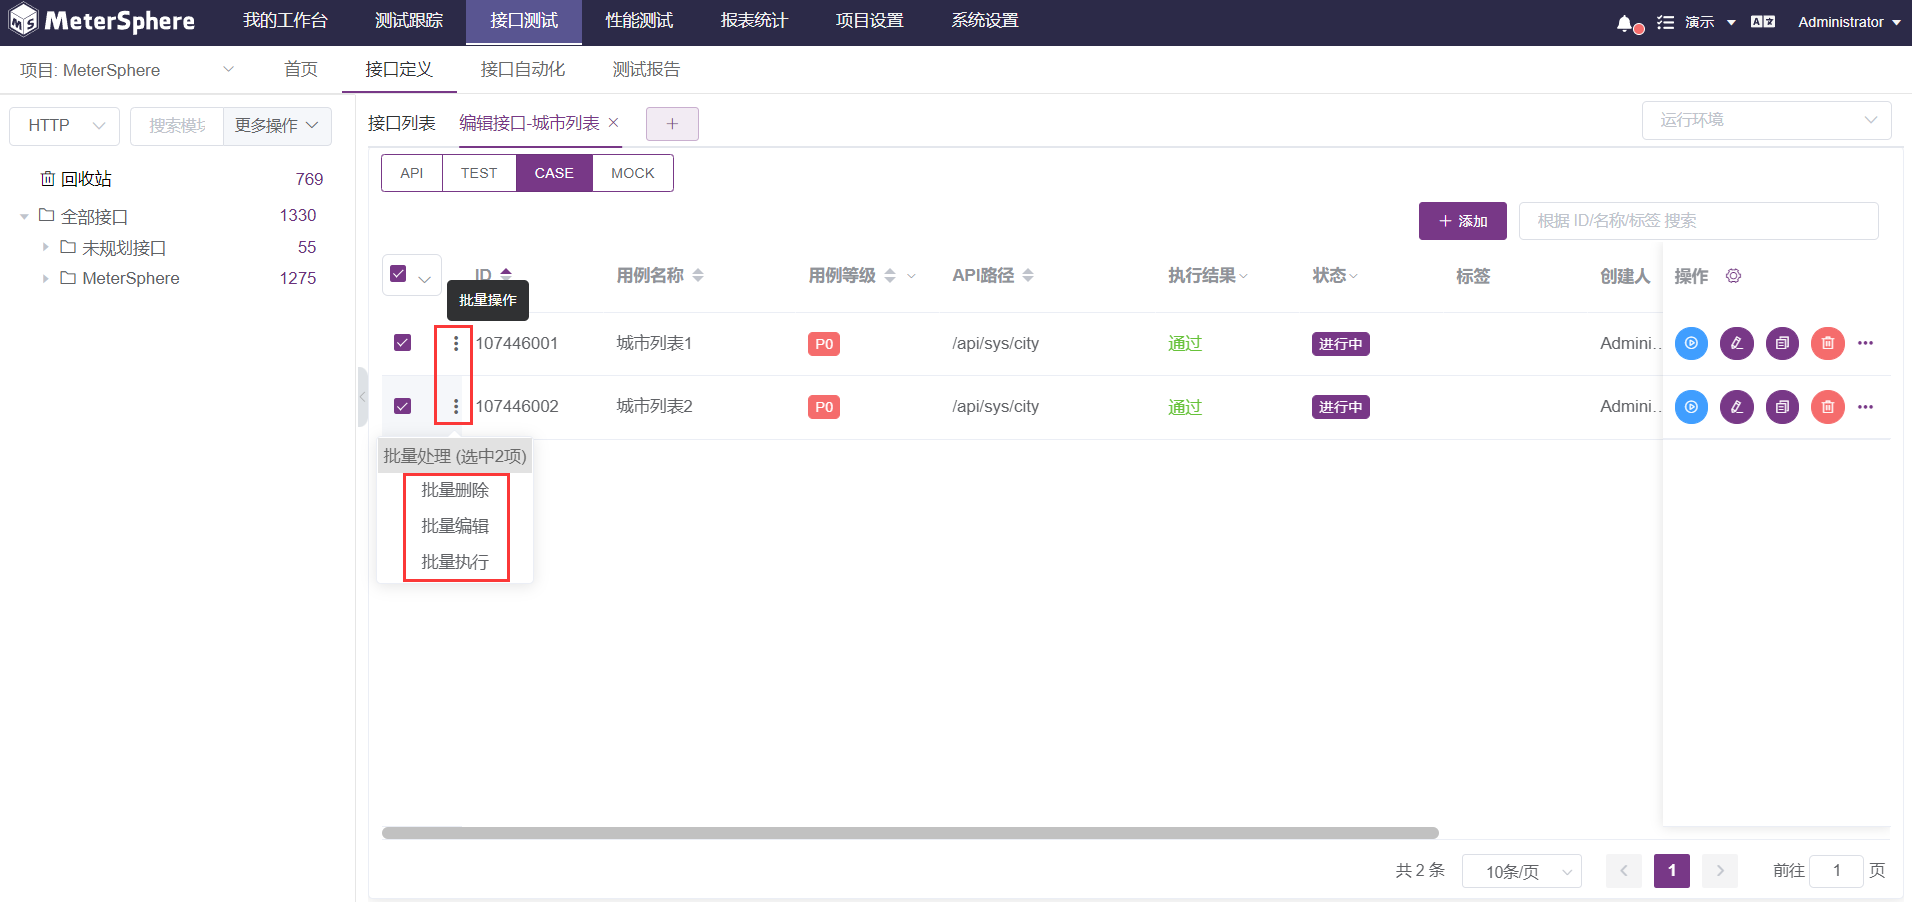
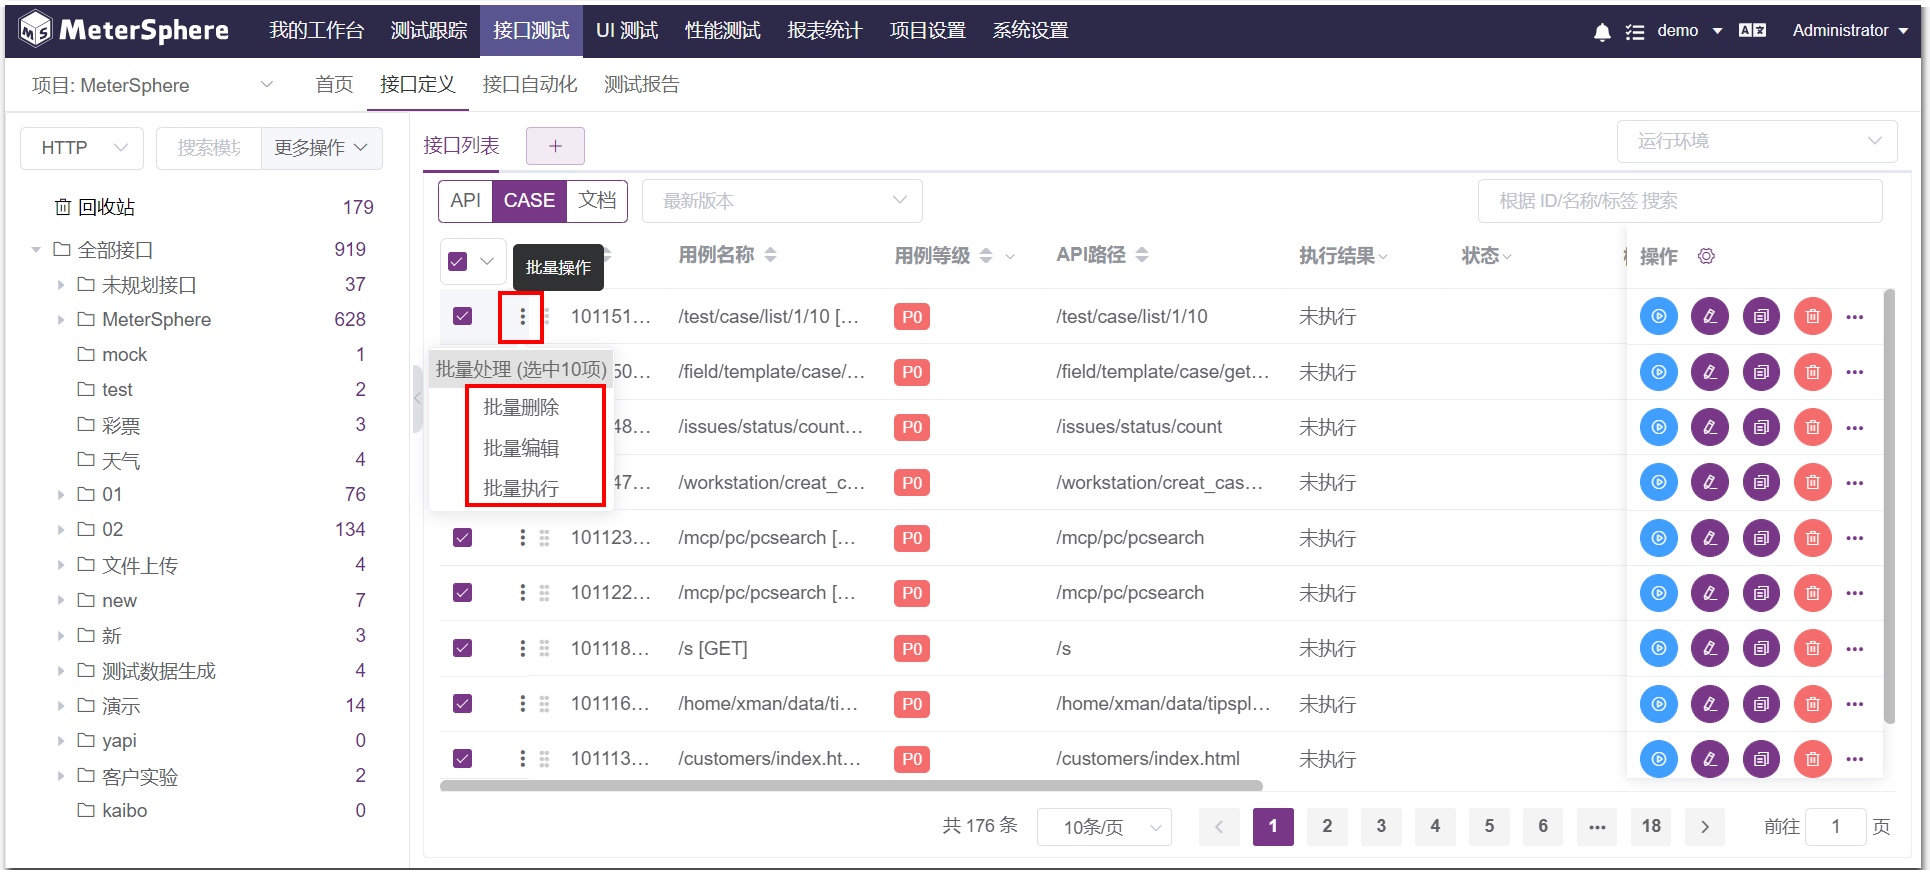
docs: 新增文档和截图

diff --git a/docs/user_manual/api_test/api_definition.md b/docs/user_manual/api_test/api_definition.md
@@ -56,6 +56,13 @@
 点击 `查看详情` 可查看具体变更信息。
 ![!变更历史](../../img/api/definition/变更历史2.png)
 
+##### 版本管理 (X-Pack)
+点击页面右上角的 `版本v2.0.0` 可查看所有的版本号，选择当前版本号，创建接口 。
+![!变更历史](../../img/api/definition/版本管理_1.png)
+
+接口列表中，选择当前版本号，可查看当前版本的所有接口用例
+![!变更历史](../../img/api/definition/版本管理_2.png)
+
 ##### HTTP请求
 ###### 请求头
 MeterSphere提供默认请求头变量。
@@ -188,6 +195,12 @@ TCPClient默认提供三种连接方式。
 ##### 依赖关系设置
 接口定义支持设置接口的前后置依赖关系。点击 `添加` 按钮，可以添加前后置接口。
 ![!依赖关系](../../img/api/依赖关系.png)
+
+##### 依赖关系图 (X-Pack)
+点击`依赖关系图`，可以看到该接口与前后置接口之间的关系
+![!依赖关系](../../img/api/definition/依赖关系图.png)
+
+
 
 #### TEST
 在TEST页面中可以调试接口，同时可以添加前后置脚本、前后置SQL、断言、提取参数等子步骤。
@@ -351,13 +364,14 @@ MeterSphere支持MeterSphere和Swagger3.0格式的接口API导出，选择要导
 
 ### 批量操作
 选择多条接口定义，点击 `…`，可对多个接口进行批量操作。
-![!API列表](../../img/api/API列表批量处理.png)
+![!API列表](../../img/api/API批量操作.png)
 
 !!! info "批量处理功能说明"
 	1. 批量删除：批量删除接口到回收站
 	2. 批量编辑：批量编辑接口属性
 	3. 批量移动：批量将接口移动到其他模块
 	4. 批量复制：批量将接口复制到其他模块
+	5. 生成依赖关系 (X-Pack)：批量接口之间的联系生成依赖关系拓扑图
 
 ### 搜索
 支持通过接口定义的 `ID` 、 `名称` 、 `标签` 、 `路径` 进行模糊搜索。

diff --git a/docs/user_manual/report_statistics/report.md b/docs/user_manual/report_statistics/report.md
@@ -1,0 +1,41 @@
+### 项目报告 (X-Pack)
+
+- 创建报告
+
+切换到`项目报告`页面，点击`创建报告`，进入报告配置页面
+![!创建报告](../../img/report_statistics/创建报告_1.png)
+
+填写报告的基础信息，鼠标悬浮到`示例`前面的小图标，可看到内容为`文本`和`报表`，根据需要进行配置。
+![!创建报告](../../img/report_statistics/创建报告_2.png)
+
+报告配置完成可点击`预览`、`发送`、`保存草稿`、`取消`按钮，点击`发送`、`保存草稿`的报告会出现在报告列表中
+![!创建报告](../../img/report_statistics/创建报告_3.png)
+
+![!创建报告](../../img/report_statistics/创建报告_4.png)
+
+- 预览报告
+
+点击`预览`按钮，即可预览该报告的内容
+![!预览报告](../../img/report_statistics/预览.png)
+
+- 复制报告
+
+点击`复制`按钮，即可复制该报告，显示在列表下方
+![!复制报告](../../img/report_statistics/复制.png)
+
+- 编辑报告
+
+点击`编辑`按钮，即可修改该报告的内容，编辑完成后点击保存
+![!编辑报告](../../img/report_statistics/编辑报告.png)
+
+- 删除报告
+
+点击`删除`按钮，即可删除该报告
+![!删除报告](../../img/report_statistics/删除.png)
+
+- 定时发送
+
+点击`定时发送`按钮，即可配置定时任务发送报告
+![!定时发送报告](../../img/report_statistics/定时任务.png)
+
+![!定时发送报告](../../img/report_statistics/定时任务配置.png)

diff --git a/docs/user_manual/project_management/version management.md b/docs/user_manual/project_management/version management.md
@@ -1,0 +1,15 @@
+## 版本管理 (X-Pack)
+切换到`版本管理`页面，启用版本管理，点击`创建版本`
+![!项目设置](../../img/project_management/版本管理_1.png)
+
+在`创建版本`页面，输入基本配置信息，点击`保存`或者`保存并创建`即可
+![!项目设置](../../img/project_management/版本管理_2.png)
+
+创建版本完成后，是否启用`状态`和`最新版`
+![!项目设置](../../img/project_management/版本管理_3.png)
+
+点击`编辑`按钮，进入编辑页面，编辑完成后点击保存即可
+![!项目设置](../../img/project_management/版本管理_4.png)
+
+点击`删除`按钮，按照提示输入`DELETE-v2.0.0`，该版本号就被删除了
+![!项目设置](../../img/project_management/版本管理_5.png)

diff --git a/docs/user_manual/project_management/false_library.md b/docs/user_manual/project_management/false_library.md
@@ -1,0 +1,15 @@
+## 误报库 (X-Pack)
+切换到`误报库`页面，点击`创建误报`
+![!项目设置](../../img/project_management/误报库.png)
+
+在`创建误报`页面，输入相关配置后，点击保存即可
+![!项目设置](../../img/project_management/误报库_2.png)
+
+`创建误报`完成后，可开启/关闭该误报
+![!项目设置](../../img/project_management/误报库_3.png)
+
+点击`编辑`按钮，可编辑误报内容，之后点击保存即可
+![!项目设置](../../img/project_management/误报库_4.png)
+
+点击`删除`按钮，点击删除提示中的`确定`按钮，该误报就被删除了
+![!项目设置](../../img/project_management/误报库_5.png)
